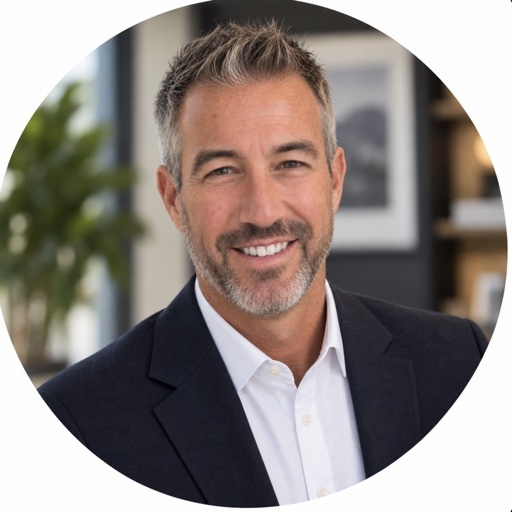
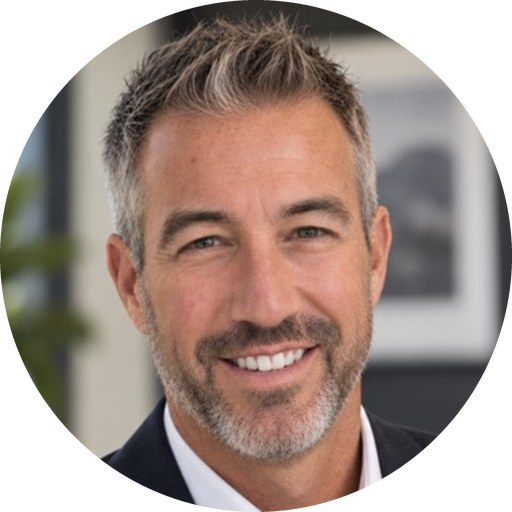
fix(sig): tighter headshot crop for Greg's email signature — transparent PNG (no white ring in dark mode), .jpg re-cropped in place for older signatures

diff --git a/public/sig-greg.html b/public/sig-greg.html
@@ -28,7 +28,7 @@
       <table cellpadding="0" cellspacing="0" border="0" style="font-family: Arial, Helvetica, sans-serif;">
         <tr>
           <td style="padding-right:14px; vertical-align:middle;">
-            <img src="https://hrxone.com/img/greg-fielding.jpg" width="74" height="74" alt="Greg Fielding" style="border-radius:50%; display:block;">
+            <img src="https://hrxone.com/img/greg-fielding.png" width="74" height="74" alt="Greg Fielding" style="border-radius:50%; display:block;">
           </td>
           <td style="vertical-align:middle; border-left:3px solid #F2B705; padding-left:14px;">
             <div style="font-size:15px; font-weight:bold; color:#1a1a1a; line-height:1.3;">Greg Fielding</div>
